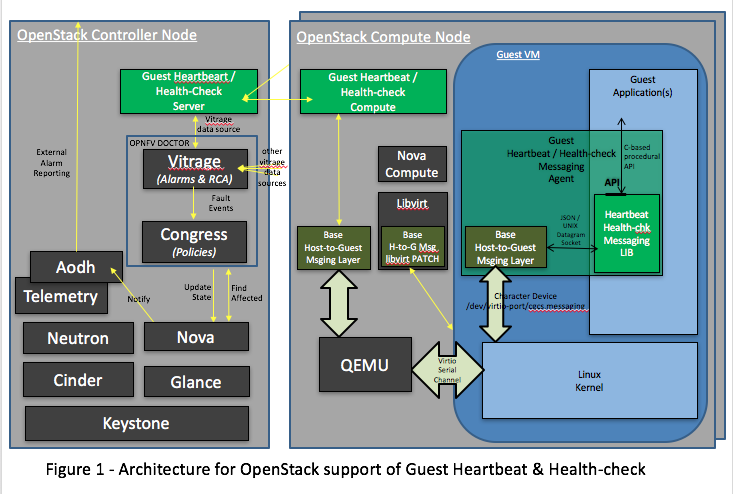
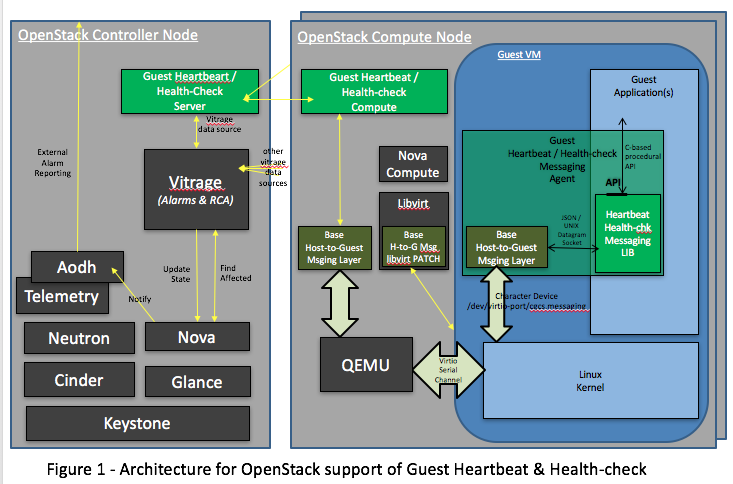
Updating HA GUEST API OVERVIEW DOCUMENT based on Bertrand Souville's comments. - adding standard Doctor / Vitrage Fault Mgmt Architecture Diagram, and - refering to Doctor SB API
-------------

Updating HA GUEST API OVERVIEW Proposal after review with OPNFV DOCTOR Team.

Minutes from meeting, that were addressed as part of this update are below.

- VM Heartbeating & Health Checking
  * libvirt watchdog and its integration / use with OpenStack
     > https://blueprints.launchpad.net/nova/+spec/libvirt-watchdog
     > https://wiki.openstack.org/wiki/LibvirtWatchdog#Notifications
     > Need to review behaviour of this capability as compared to the
       proposed VM Heartbeating/Health-checking
     > i believe there is a bit of overlap
       but believe that VM Heartbeating / Health-checking provides a
       more complete solution
     > i'll update document with a NOTE on comparing the proposal with
       the libvirt watchdog
  * Update the architecture diagram to be consistent with the most current
    DOCTOR Architecture Diagrams
     > e.g. Vitrage & Congress are not necessrily deployed at same time
     > use DOCTOR terminology where applicable, e.g. "inspector modules"
     > OPNFV DOCTOR includes patches/components of AODH, NOVA, NEUTRON
       ... not just Vitrage and Congress, as shown in diagram
       - although also had comment that should remove OPNFV DOCTOR outline
         from diagram as OPNFV DOCTOR is a reuirement specification and
         not an implementation
     > indicate (possibly just in text below diagram) that the "Guest
       Heartbeat / Health-check Server' on Controller Node is possibly not
[…]

diff --git a/docs/development/overview/OPNFV_HA_Guest_APIs-Overview_HLD.rst b/docs/development/overview/OPNFV_HA_Guest_APIs-Overview_HLD.rst
@@ -5,16 +5,16 @@ Overview
 :organization: Wind River Systems
 :organization: OPNFV - High Availability
 :status: Draft - PROPOSAL
-:date: March 2017
-:revision: 1.5
+:date: April 2017
+:revision: 1.6
 
-:abstract: This document presents a PROPOSAL for a set of new
-   optional capabilities where the OpenStack Cloud messages
-   into the Guest VMs in order to provide improved Availability
-   of the hosted VMs.  The initial set of new capabilities
-   include: enabling the detection of and recovery from internal
-   VM faults and providing a simple out-of-band messaging service
-   to prevent scenarios such as split brain.
+:abstract: This document describes a set of new optional
+   capabilities where the OpenStack Cloud messages into the Guest
+   VMs in order to provide improved Availability of the hosted VMs.
+   The initial set of new capabilities include: enabling the
+   detection of and recovery from internal VM faults and providing
+   a simple out-of-band messaging service to prevent scenarios such
+   as split brain.
 
 
 .. sectnum::
@@ -26,8 +26,8 @@ Overview
 Introduction
 =====================================================================
 
-   This document provides an overview and rationale for a PROPOSAL
-   of a set of new capabilities where the OpenStack Cloud messages
+   This document provides an overview and rationale for a
+   set of new capabilities where the OpenStack Cloud messages
    into the Guest VMs in order to provide improved Availability
    of the hosted VMs.
 
@@ -48,10 +48,6 @@ Introduction
    the larger OpenStack and OPNFV Architectures (e.g. interactions
    with VNFM), specific OPNFV HA Team deliverables, and the use cases
    for how availability of the hosted VM is improved.
-
-   The intent is for the OPNFV HA Team to review the proposals of this
-   document with the related other teams in OPNFV (Doctor and Management
-   & Orchestration (MANO)) and OpenStack (Nova).
 
 
 
@@ -92,17 +88,22 @@ VM Heartbeating and Health Checking
 
    Normally OpenStack monitoring of the health of a Guest VM is limited
    to a black-box approach of simply monitoring the presence of the
-   QEMU/KVM PID containing the VM.
+   QEMU/KVM PID containing the VM, and/or by enabling libvirt's emulated
+   hardware watchdog.
 
-   VM Heartbeating and Health Checking provides a heartbeat service to monitor
-   the health of guest application(s) within a VM running under the OpenStack
-   Cloud.  Loss of heartbeat or a failed health check status will result in a
-   fault event being reported to OPNFV's DOCTOR infrastructure for alarm
-   identification, impact analysis and reporting.  This would then enable VNF
-   Managers (VNFMs) listening to OPNFV's DOCTOR External Alarm Reporting through
+   VM Heartbeating and Health Checking provides a heartbeat service to enhance
+   the monitoring of the health of guest application(s) within a VM running
+   under the OpenStack Cloud.  Loss of heartbeat or a failed health check status
+   will result in a fault event being reported to OPNFV's DOCTOR infrastructure
+   for alarm identification, impact analysis and reporting.  This would then enable
+   VNF Managers (VNFMs) listening to OPNFV's DOCTOR External Alarm Reporting through
    Telemetry's AODH, to initiate any required fault recovery actions.
 
    .. image:: OPNFV_HA_Guest_APIs-Overview_HLD-Guest_Heartbeat-FIGURE-1.png
+
+   Or, in the context of the OPNFV DOCTOR's Fault Management Architecture:
+
+   .. image:: OPNFV_HA_Guest_APIs-Overview_HLD-Guest_Heartbeat-FIGURE-1b.png
 
    The VM Heartbeating and Health Checking functionality is enabled on
    a VM through a new flavor extraspec indicating that the VM supports
@@ -115,8 +116,8 @@ VM Heartbeating and Health Checking
    (i.e. the Guest VM).  The OpenStack Compute Node will start heartbeating the
    Guest VM, and if the heartbeat fails, the OpenStack Compute Node will report
    the VM Fault thru DOCTOR and ultimately VNFM will see this thru NOVA VM
-   State Chagne Notifications thru AODH.  I.e. VNFM wouild see the VM Heartbeat
-   Failure events in teh same way it sees all other VM Faults, thru DOCTOR
+   State Change Notifications thru AODH.  I.e. VNFM wouild see the VM Heartbeat
+   Failure events in the same way it sees all other VM Faults, thru DOCTOR
    initiated VM state changes.
 
    Part of the Guest VM's registration process is the specification of the
@@ -130,8 +131,13 @@ VM Heartbeating and Health Checking
    If the OpenStack Host does not receive a valid response, or if the response
    specifies that the VM is in ill health, then a fault event for the Guest VM
    is reported to the OpenStack Guest Heartbeat Service on the controller node which
-   will report the event to OPNFV's DOCTOR (i.e. thru the OpenStack Vitrage data
-   source APIs).
+   will report the event to OPNFV's DOCTOR (i.e. thru the Doctor SouthBound (SB)
+   APIs).
+
+   In summary, the Guest Heartbeating Messaging Specification is quite simple,
+   including the following PDUs: Init, Init-Ack, Challenge-Request,
+   Challenge-Response, Exit.  The Challenge-Response returning a healthy /
+   not-healthy boolean.
 
    The registered Guest VM daemon's response to the challenge can be as simple
    as just immediately responding with OK.  This alone allows for detection of
@@ -177,8 +183,19 @@ VM Heartbeating and Health Checking
       - will provide code and compile instructions,
       - Guest will compile based on its specific OS.
 
-   This proposal requires review with OPNFV's Doctor and Management & Orchestration
-   teams, and OpenStack's Nova Team.
+   NOTE that the described VM Heartbeating and Healthchecking functionality provides
+   enhanced monitoring over and above libvirt's emulated hardware watchdog.  VM
+   Heartbeating and Healthchecking can detect a wider range of issues than simply
+   lack of cpu time scheduling for a lower priority process feeding the hardware
+   watchdog.  VM Heartbeating and Healthchecking can ensure that specific key processes
+   within the application are not blocked, kernel resources for basic IO within
+   the Guest VM are available, and/or ensure the application-specific health of the VM
+   is good.
+
+   This proposal has been reviewed with both the OPNFV's Doctor and Management
+   and Orchestration teams, and general agreement was that the proposal integrated
+   / inter-worked correctly with the OPNFV DOCTOR's Vitrage, Congress and the overall
+   OPNFV fault reporting architecture.
 
 
 
@@ -257,19 +274,23 @@ VM Peer State Notification and Messaging
      Server Group Messaging containing the peer protocol layers
      and Guest Application hooks within the Guest.
 
-   This proposal requires review with OPNFV's Management & Orchestration team and
-   OpenStack's Nova Team.
+   This proposal has been reviewed with both the OPNFV's Doctor and Management
+   and Orchestration teams, and general agreement was that the proposal did not
+   conflict with the OPNFV Doctor Architecture, and provided, at the very least,
+   an alternative messaging and state-change-notification mechanism for hosted
+   VMs in various HA use cases.
+
 
 
 Conclusion
 ======================================================================================
 
-   The PROPOSAL of Reach-thru Guest Monitoring and Services described in this document
+   The Reach-thru Guest Monitoring and Services described in this document
    leverage Host-to-Guest messaging to provide a number of extended capabilities
    that improve the Availability of the hosted VMs.  These new capabilities
    enable detection of and recovery from internal VM faults and provides a simple
    out-of-band messaging service to prevent scenarios such as split brain.
 
-   The integration of these proposed new capabilities into the larger OpenStack and OPNFV
-   Architectures need to be reviewed with the other related teams in OPNFV (Doctor and
-   Management & Orchestration (MANO)) and OpenStack (Nova).
+   The next steps in progressing this proposal will be to submit blueprints to
+   the appropriate OpenStack working groups;  Vitrage for VM Heartbeating and
+   Healthchecking and Nova for VM Server Group Messaging.
